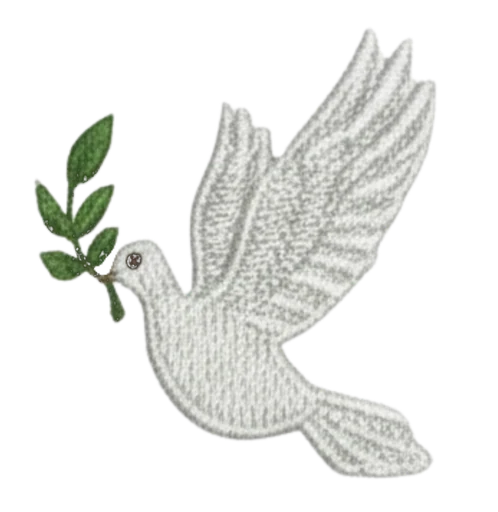
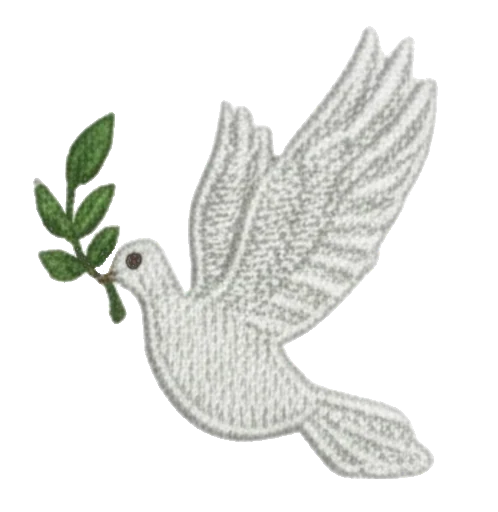
Heritage decals match the spec sheet
Rear panels per official_hatdesign.jpg: dove flying beside the panda on
the wearer-left panel, globe patch wearer-right, everything clear of the
opening and upright. Brim: laurels keep the art's 3:1 aspect and yaw
along the side edges; the Khmer blessing sits between them, right way
up, in a projection volume deep enough to hold the brim's slope. Panda
and dove art alpha-solidified — the fur was 82% transparent, authored
for dark fabric, and ghosted on white. Image embroidery loses the
metallic wash so thread art reads on both colorways.

diff --git a/src/components/HatModel.tsx b/src/components/HatModel.tsx
@@ -677,16 +677,21 @@ export default function HatModel({
 
   // Brim projection: tilt forward to follow brim slope
   const brimProjectionRot: [number, number, number] = [Math.PI / 2 - 0.18, 0, 0];
-  // Leaf positioning: LARGE laurel branches spanning most of the brim (per spec)
+  // Laurel branches along the brim SIDE edges, tips converging forward (per
+  // official_hatdesign.jpg). The art is 512×171 — keep its 3:1 aspect or the
+  // branches smear into blobs. Each branch yaws inward so it follows the edge.
   const leafY = billCenter.y + billSize.y * 0.10;
-  const leafZ = billCenter.z + billSize.z * 0.14;
-  const leafW = billSize.x * 0.66;
-  const leafH = leafW * 0.82;
+  const leafZ = billCenter.z + billSize.z * 0.12;
+  const leafW = billSize.x * 0.56;
+  const leafH = leafW * 0.334;
   const leafDepth = Math.max(billSize.y * 0.12, 10);
-  const leafSpread = billSize.x * 0.30;
+  const leafSpread = billSize.x * 0.25;
   const leafLeftPos: [number, number, number] = [billCenter.x - leafSpread, leafY, leafZ];
   const leafRightPos: [number, number, number] = [billCenter.x + leafSpread, leafY, leafZ];
   const leafScale: [number, number, number] = [leafW, leafH, leafDepth];
+  const leafYaw = 0.7;
+  const leafLeftRot: [number, number, number] = [brimProjectionRot[0], 0, leafYaw];
+  const leafRightRot: [number, number, number] = [brimProjectionRot[0], 0, -leafYaw];
 
   return (
     <group ref={groupRef} scale={displayScale}>
@@ -771,7 +776,7 @@ export default function HatModel({
           <ProjectedDecal
             mesh={billDecalTargetRef}
             position={leafLeftPos}
-            rotation={brimProjectionRot}
+            rotation={leafLeftRot}
             scale={leafScale}
           >
             <meshStandardMaterial
@@ -797,7 +802,7 @@ export default function HatModel({
           <ProjectedDecal
             mesh={billDecalTargetRef}
             position={leafRightPos}
-            rotation={brimProjectionRot}
+            rotation={leafRightRot}
             scale={leafScale}
           >
             <meshStandardMaterial
@@ -822,14 +827,14 @@ export default function HatModel({
         {billDecalTarget && brimText && (
           <ProjectedDecal
             mesh={billDecalTargetRef}
-            position={[billCenter.x, billCenter.y + billSize.y * 0.10, billCenter.z + billSize.z * 0.22]}
-            rotation={brimProjectionRot}
-            scale={[billSize.x * 0.62, billSize.x * 0.18, Math.max(billSize.y * 0.12, 10)]}
+            position={[billCenter.x, billCenter.y + billSize.y * 0.02, billCenter.z + billSize.z * 0.24]}
+            rotation={[Math.PI / 2 - 0.30, 0, Math.PI]}
+            scale={[billSize.x * 0.50, (billSize.x * 0.50) / 4.59, Math.max(billSize.y * 0.45, 18)]}
           >
             <meshStandardMaterial
               map={khmerBrimTex}
               transparent
-              alphaTest={0.06}
+              alphaTest={0.02}
               depthTest
               depthWrite={false}
               side={THREE.FrontSide}

diff --git a/src/types/hat.ts b/src/types/hat.ts
@@ -116,17 +116,30 @@ function frontText(finish: Finish, hatColor: string): Decal {
   };
 }
 
-// Heritage back panel: dove and globe patch flanking the snapback, panda by
-// the inside label. Positions are the spec-tuned values.
+// Heritage rear panels, per official_hatdesign.jpg: panda with the dove just
+// left of it on the wearer-left panel, globe patch on the wearer-right panel —
+// all above and clear of the snapback opening. Panda lives OUTSIDE, not inside.
 const HERITAGE_DECALS: Decal[] = [
+  {
+    id: 'heritage-panda',
+    type: 'image',
+    url: `${BASE_URL}images/panda_decal.webp`,
+    position: [30, 44, -84],
+    rotation: [0, Math.PI, 0],
+    scale: [30, 36, 45],
+    normal: [0.15, 0.05, -1],
+    spin: 0,
+    zone: 'back',
+    style: 'embroidery',
+  },
   {
     id: 'heritage-dove',
     type: 'image',
     url: `${BASE_URL}images/dove_decal.webp`,
-    position: [-26, 36, -86],
+    position: [42, 51, -79],
     rotation: [0, Math.PI, 0],
-    scale: [34, 34, 50],
-    normal: [0, 0, -1],
+    scale: [22, 22, 42],
+    normal: [0.35, 0.05, -0.92],
     spin: Math.PI,
     zone: 'back',
     style: 'embroidery',
@@ -135,25 +148,13 @@ const HERITAGE_DECALS: Decal[] = [
     id: 'heritage-patch7',
     type: 'image',
     url: `${BASE_URL}images/patch7_decal.webp`,
-    position: [26, 36, -86],
+    position: [-42, 46, -78],
     rotation: [0, Math.PI, 0],
-    scale: [34, 34, 50],
-    normal: [0, 0, -1],
+    scale: [28, 30, 45],
+    normal: [-0.4, 0.05, -0.9],
     spin: Math.PI,
     zone: 'back',
     style: 'embroidery',
-  },
-  {
-    id: 'heritage-panda',
-    type: 'image',
-    url: `${BASE_URL}images/panda_decal.webp`,
-    position: [-30, 18, 30],
-    rotation: [0, 0, 0],
-    scale: [22, 22, 40],
-    normal: [0, -1, 0.2],
-    spin: 0,
-    zone: 'inside',
-    style: 'flat',
   },
 ];
 

diff --git a/src/components/DecalLayer.tsx b/src/components/DecalLayer.tsx
@@ -180,10 +180,10 @@ export default function DecalLayer({ decal, targetMesh, isSelected, onClick }: D
         polygonOffset
         polygonOffsetFactor={isSelected ? -4 : -3}
         polygonOffsetUnits={isSelected ? -4 : -3}
-        roughness={isGoldEmbroidery ? 0.25 : isEmbroidery ? 0.5 : 0.65}
-        metalness={isGoldEmbroidery ? 0.75 : isEmbroidery ? 0.3 : 0.15}
-        emissive={isSelected ? '#1f1f1f' : isGoldEmbroidery ? '#6B4500' : '#3D2200'}
-        emissiveIntensity={isSelected ? 0.3 : isGoldEmbroidery ? 0.3 : 0.12}
+        roughness={isGoldEmbroidery ? 0.25 : isEmbroidery ? 0.6 : 0.65}
+        metalness={isGoldEmbroidery ? 0.75 : isEmbroidery ? 0.08 : 0.15}
+        emissive={isSelected ? '#1f1f1f' : isGoldEmbroidery ? '#6B4500' : '#000000'}
+        emissiveIntensity={isSelected ? 0.3 : isGoldEmbroidery ? 0.3 : 0}
       />
     </ProjectedDecal>
   );
